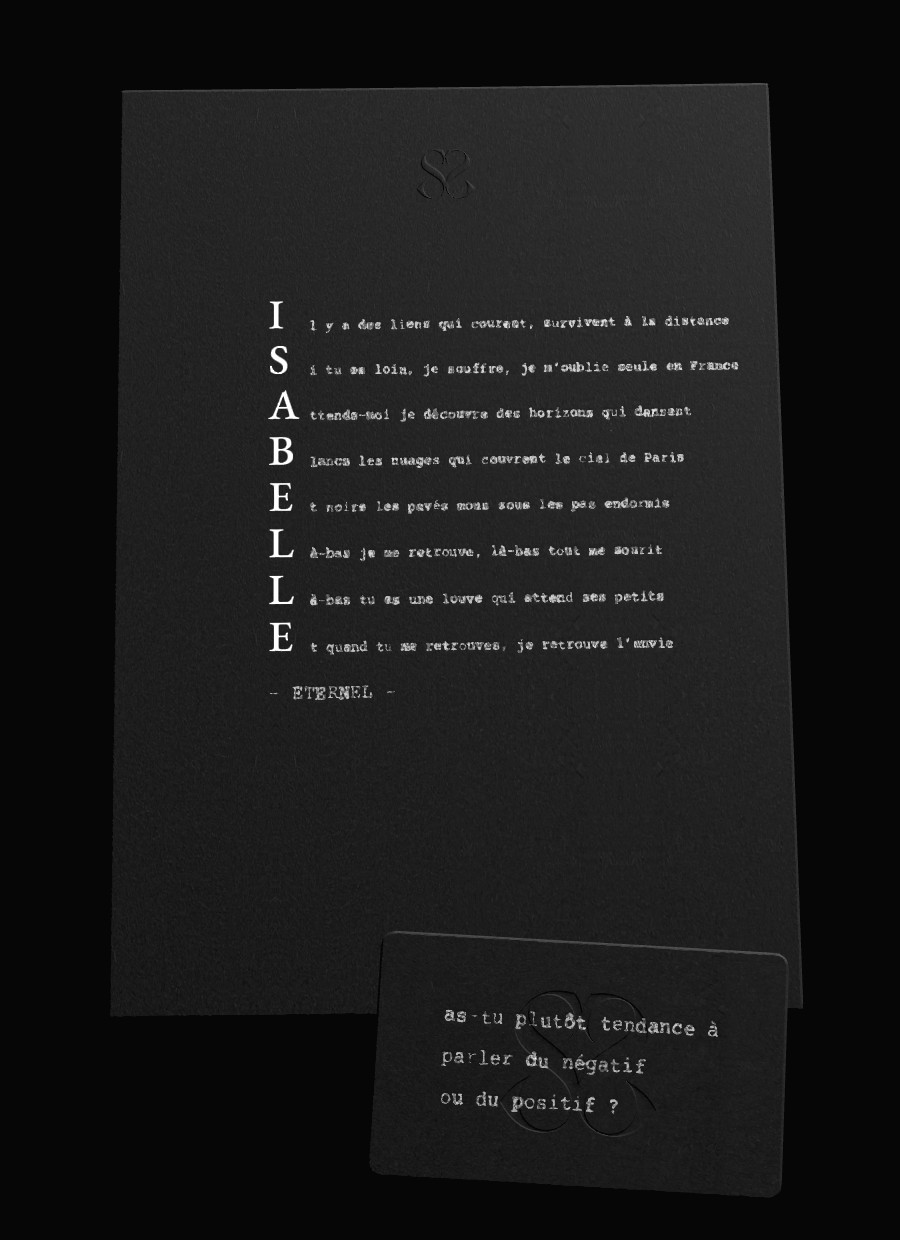
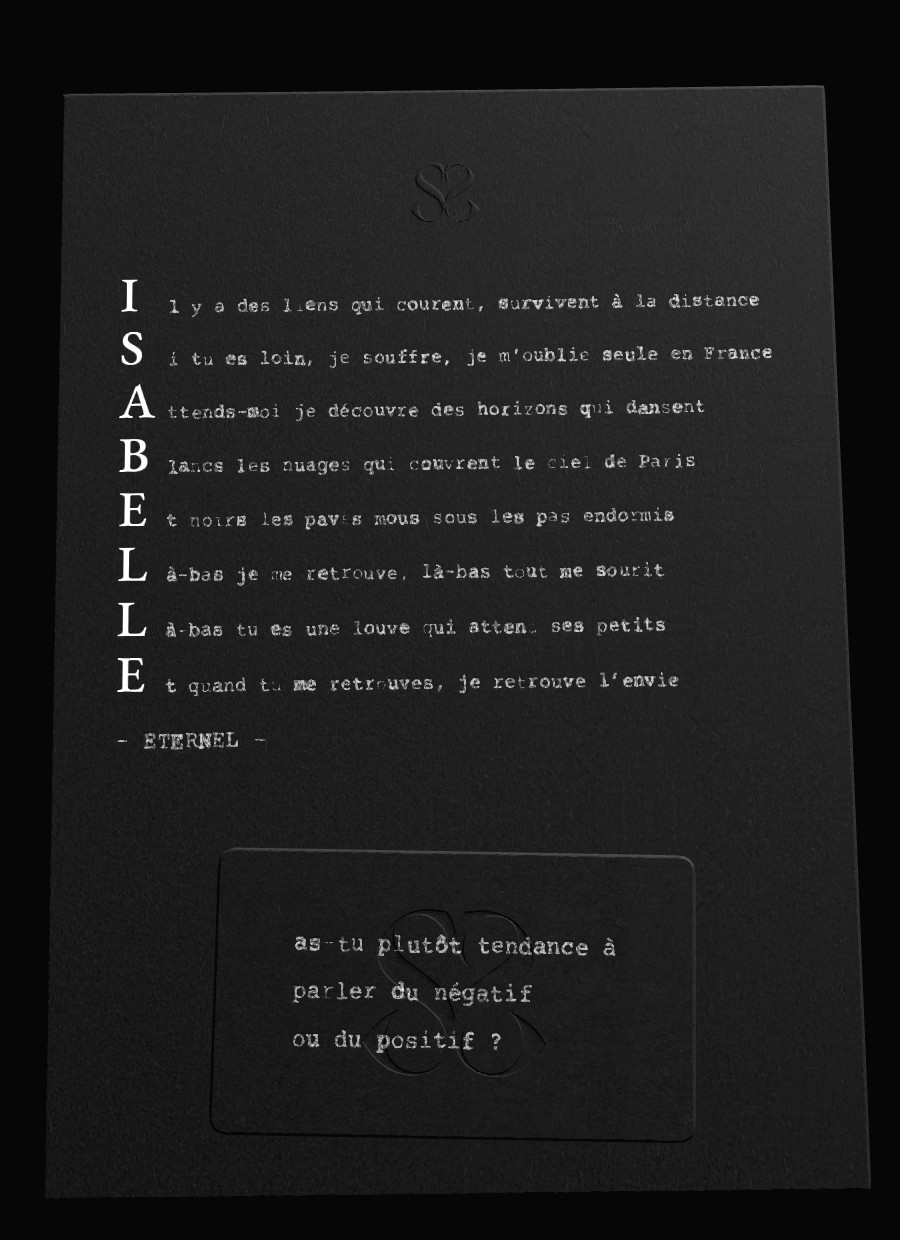
Acrostiche centré sur la feuille ; (alt) carte face cachée posée SUR la feuille sous le nom, exemples carte ouverte ; « un poème original tapé à la machine » ; « réponds ici » partout ; PASSER (j’improvise à partir de PRÉNOM), centré

diff --git a/exemples-rendu.html b/exemples-rendu.html
@@ -43,22 +43,24 @@
     const vers = ex.vers.filter(v => v !== '');
     const chars = vers.map(v => v[0].toUpperCase());
     nameR.letters(chars);
-    const n = chars.length, lead = n > 1 ? Math.min(10.5, 148 / (n - 1)) : 10.5;
-    const cap = Math.min(6.4, lead * 0.6), emT = cap / nameR.capHeight, yc = 14;   // le poème entre le logo et la carte
+    // la carte posée SUR la feuille, sous le nom, centrée ; le poème centré entre le logo et la carte
+    const CY = -SHEET.h / 2 + CARD.h / 2 + 10, colTop = SHEET.h / 2 - 32, colBot = CY + CARD.h / 2 + 10;
+    const n = chars.length, lead = n > 1 ? Math.min(10.5, (colTop - colBot - 14) / (n - 1)) : 10.5;
+    const cap = Math.min(6.4, lead * 0.6), emT = cap / nameR.capHeight, yc = (colTop + colBot) / 2 + cap / 2 + 4;
     const baseOf = k => yc + ((n - 1) / 2 - k) * lead - cap / 2;
 
     // les vers, tapés à la machine juste après la lettre de la colonne ; plus petits si le plus long ne tient pas
-    const x0 = COL_X + Math.max(...chars.map(c => nameR.adv(c))) * emT + TYPE.pitch * 0.9;
     // (la police machine n'a pas de « œ », les machines à écrire non plus : « oe »)
     const rests = vers.map(v => v.slice(2).replace(/œ/g, 'oe').replace(/Œ/g, 'OE'));
-    const avail = SHEET.w / 2 - 9 - x0, long = Math.max(...rests.map(r => r.length)) * TYPE.pitch;
-    const k = Math.min(1, avail / long);
+    // le bloc (lettres + vers) centré sur la feuille ; les vers à la taille de la machine, plus petits seulement s'ils ne tiennent pas
+    const lw = Math.max(...chars.map(c => nameR.adv(c))) * emT, gap = TYPE.pitch * 0.9, long = Math.max(...rests.map(r => r.length)) * TYPE.pitch;
+    const k = Math.min(1, (SHEET.w - 24 - lw - gap) / long);
+    const colX = -(lw + gap + long * k) / 2, x0 = colX + lw + gap;
     const full = new OffscreenCanvas(Math.round(SHEET.w * PX), Math.round(SHEET.h * PX)), fx = full.getContext('2d');
     fx.fillStyle = '#000'; fx.fillRect(0, 0, full.width, full.height);
-    // frappé deux fois au même endroit (même graine) : l'appui irrégulier reste, aucune lettre ne disparaît
-    for (let rep = 0; rep < 2; rep++) rests.forEach((r, i) => typeLines(fx, PX * k, [r], (SHEET.w / 2 + x0) / k, (SHEET.h / 2 - baseOf(i)) / k, 0, seed * 31 + i * 7, 0.75, '#fff'));
+    rests.forEach((r, i) => typeLines(fx, PX * k, [r], (SHEET.w / 2 + x0) / k, (SHEET.h / 2 - baseOf(i)) / k, 0, seed * 31 + i * 7, 1, '#fff'));
     const sigY = baseOf(n - 1) - Math.max(lead, 8.5);
-    typeLines(fx, PX, ['- ETERNEL -'], SHEET.w / 2 + COL_X, SHEET.h / 2 - sigY, 0, 4049, 1, '#fff');
+    typeLines(fx, PX, ['- ETERNEL -'], SHEET.w / 2 + colX, SHEET.h / 2 - sigY, 0, 4049, 1, '#fff');
     const sheetInk = card.makeInk(full, true);
 
     // la carte : une question au hasard, côté question, posée en bas de la feuille comme dans le parcours
@@ -66,7 +68,7 @@
     const cardInk = card.makeInk(makeInkMap(q, seed * 13 + 5).canvas);
 
     // cadrage : la feuille entière (et la carte qui dépasse un peu en bas), vue presque de face, lampe rasante
-    const y0 = Math.min(-SHEET.h / 2, C_POSE.y - CARD.h / 2) - 6, y1 = SHEET.h / 2 + 4, x0f = -SHEET.w / 2, x1f = SHEET.w / 2;
+    const y0 = -SHEET.h / 2 - 4, y1 = SHEET.h / 2 + 4, x0f = -SHEET.w / 2, x1f = SHEET.w / 2;
     const Hw = Math.max((y1 - y0) * 1.06, (x1f - x0f) * 1.06 * H / W), D = Hw / (2 * TF), cy = (y0 + y1) / 2;
     const eye = [0, cy - D * Math.sin(TILT), D * Math.cos(TILT)];
     const vp = M4.mul(M4.perspective(FOV, W / H, D * 0.25, D * 3), M4.lookAt(eye, [0, cy, 0], [0, 1, 0]));
@@ -80,9 +82,9 @@
     const Ms = M4.model(0, 0, 0.012, 0, 0, 0);
     card.draw(vp, eye, P, { model: Ms, lod: 'sheet', seed: 40 + seed, paperXf: [1.2, -0.6, 0, 0], warp: [0.4, -0.22, 0.05],
       logoOff: [0, LOGO_Y], logoScale: [LOGO_K, LOGO_K], paperTile: 0.6 * CARD.w / 0.7, paperLo: 0.35, inkBack: sheetInk, inkRG: true });
-    const Mc = M4.mul(M4.mul(Ms, M4.model(0, 0, C_POSE.rz, C_POSE.x, C_POSE.y, 2.2)), M4.model(0, Math.PI, 0));
+    const Mc = M4.mul(M4.mul(Ms, M4.model(0, 0, -0.03, 0, CY, 2.2)), M4.model(0, Math.PI, 0));
     card.draw(vp, eye, P, { model: Mc, lod: 'fine', ink: cardInk, seed: (seed * 7) % 97, paperXf: [0.6, -0.4, 0, 0], warp: [0.18, -0.08, 0.04], logoOff: [0, 0] });
-    const list = chars.map((ch, i) => ({ i, model: M4.mul(Ms, M4.mul(T(COL_X, baseOf(i), SHEET.t / 2 + 1), S(emT))), glow: 0.16, alpha: 1 }));
+    const list = chars.map((ch, i) => ({ i, model: M4.mul(Ms, M4.mul(T(colX, baseOf(i), SHEET.t / 2 + 1), S(emT))), glow: 0.16, alpha: 1 }));
     nameR.drawLetters(vp, eye, P, L, list, 2);
     gl.finish();
     const url = canvas.toDataURL('image/jpeg', 0.9);

diff --git a/src/sheet/sheet.js b/src/sheet/sheet.js
@@ -49,7 +49,7 @@ const FLY_AT = 1.05, FLY_GAP = 0.27, FLY_T = 1.35;
 const CAM_T = 2.4;
 const C_IN = { x: 14, y: -56, rz: -0.03, z: 0.3 };                  // la carte, posée sur la feuille pour entrer
 const FD_IN = [1.6, 3.1];                        // (alt) la carte face cachée glisse sur la feuille
-const FD_Y = -SHEET.h / 2 + 26;                  // … et s'y pose entière (le bas de l'écran porte l'offre)
+const FD_Y = -SHEET.h / 2 + CARD.h / 2 + 10;     // … et s'y pose entière, sous le nom, centrée (10/10 : rien ne dépasse de la feuille)
 const ENVELOPE = new URLSearchParams(location.search).get('enveloppe') !== '0';   // ?enveloppe=0 : « bientôt » comme avant
 // 08/10 : plus de commande — l'acrostiche posé, on passe directement à l'enveloppe (?commande=1 : les deux cartes)
 const ORDERS_ON = new URLSearchParams(location.search).get('commande') === '1' || !ENVELOPE;
@@ -151,10 +151,13 @@ export function createSheetScene(gl, opts) {
   const chars = [...name];
   nameR.letters(chars);
   const nLines = chars.length;
-  const lead = nLines > 1 ? Math.min(10.5, 148 / (nLines - 1)) : 10.5;
+  // (10/10) l'acrostiche toujours centré sur la feuille : entre le haut (sous le logo) et le bas — ou, quand la carte
+  // face cachée est posée sur la feuille (alt), le haut de la carte ; l'interligne se resserre s'il le faut
+  const FD = !!(C && C.faceDown), colTop = SHEET.h / 2 - 32, colBot = FD ? FD_Y + CARD.h / 2 + 10 : -SHEET.h / 2 + 18;
+  const lead = nLines > 1 ? Math.min(10.5, 148 / (nLines - 1), FD ? (colTop - colBot - 6) / (nLines - 1) : Infinity) : 10.5;
   const cap = Math.min(6.4, lead * 0.6), emT = cap / nameR.capHeight;
-  // bloc un peu remonté quand la carte occupe le bas ; (alt) plus encore : la carte face cachée est posée SUR la feuille
-  const yc = C ? (C.faceDown ? 10 : -6) : 0;
+  // bloc un peu remonté quand la carte (réponse) recouvre le bas ; (alt) centré au-dessus de la carte posée sur la feuille
+  const yc = C ? (FD ? (colTop + colBot) / 2 + cap / 2 : -6) : 0;
   const baseOf = k => yc + ((nLines - 1) / 2 - k) * lead - cap / 2;
   // départ : la lettre telle que la scène des cartes l'a laissée (monde, à plat)
   const starts = [];
@@ -174,7 +177,7 @@ export function createSheetScene(gl, opts) {
   const first = chars.findIndex(c => c !== ' ');
   // lignes à écrire : un souligné à la machine à droite de chaque lettre, tapé quand elle se pose (fin commune,
   // marge droite = marge de la colonne)
-  const RULE_X1 = SHEET.w / 2 - 30;
+  const RULE_X1 = -COL_X;   // (10/10) marges égales : le bloc (colonne + lignes) centré sur la feuille
   const rulesOf = tu => flyers.map((f, k) => {
     const x0 = COL_X + nameR.adv(f.ch) * emT + TYPE.pitch * 1.2;
     const u = reduced ? (tu > f.at + f.dur ? 1 : 0) : clamp01((tu - (f.at + f.dur + 0.12)) / 0.55);
@@ -223,7 +226,7 @@ export function createSheetScene(gl, opts) {
     return { cx: (x0 + x1) / 2, cy: (y0 + y1) / 2, D: Hw / (2 * TF), Hw };
   }
   function layout(W, H) {
-    const cBot = C ? C_POSE.y - CARD.h / 2 : -SHEET.h / 2;
+    const cBot = C && !C.faceDown ? C_POSE.y - CARD.h / 2 : -SHEET.h / 2;   // (alt) la carte est SUR la feuille : même cadrage
     frames.A = frameFor(SY + cBot - 8, SY + SHEET.h / 2 + 4, -SHEET.w / 2, SHEET.w / 2, SHEET.w * 1.1, W, H);
     // tant que les lettres sont en haut : la feuille et le prénom au-dessus
     frames.AN = frameFor(SY + cBot - 8, Math.max(SY + SHEET.h / 2 + 4, nameTop + 8), -SHEET.w / 2, SHEET.w / 2, SHEET.w * 1.1, W, H);
@@ -443,7 +446,7 @@ export function createSheetScene(gl, opts) {
       const u = reduced ? sstep(FD_IN[0], FD_IN[0] + 0.5, tu) : span(FD_IN, tu), e = ease(u);
       const lv = C.leaveT != null ? (reduced ? 1 : ease(clamp01((t - C.leaveT) / 1.1))) : 0;
       const k = Math.max(1 - e, lv);
-      Mc = M4.mul(Msheet, M4.model(0, 0, C_POSE.rz - 0.28 * k, C_POSE.x + C.v.jx + 24 * k, FD_Y + C.v.jy * 2 - 125 * k, 2.2 + 26 * k));
+      Mc = M4.mul(Msheet, M4.model(0, 0, -0.03 - 0.28 * k, C.v.jx + 24 * k, FD_Y + C.v.jy * 2 - 125 * k, 2.2 + 26 * k));
       C.fade = sstep(0, 0.35, u) * (1 - sstep(0.3, 1, lv));
       C.occ = u > 0.9 && lv < 0.05 && !hideInside ? { m: Mc } : null;
     } else if (C) {

diff --git a/src/simple/simple.js b/src/simple/simple.js
@@ -64,7 +64,7 @@ const CSS = `
 .sp-sign { position: absolute; left: 0; right: 0; text-align: center; font: 500 14px/44px 'SG Garamond', Georgia, serif; letter-spacing: .4em;
   padding: 0 0 0 .4em; margin: 0; border: 0; background: transparent; color: #fff; opacity: 0; transition: opacity 1.2s; pointer-events: none; cursor: pointer; }
 .sp-sign.on { opacity: .62; pointer-events: auto; }
-.sp-sign .sp-sub { display: block; margin-top: -10px; font-size: 13px; line-height: 1.2; letter-spacing: .04em; opacity: .55; }
+.sp-sign .sp-sub { display: block; margin-top: -10px; font-size: 13px; line-height: 1.2; letter-spacing: .04em; padding-left: 0; opacity: .55; }
 .sp-sign.on:hover { opacity: .85; }
 .sp-back { position: absolute; left: max(6px, env(safe-area-inset-left)); top: max(6px, env(safe-area-inset-top)); width: 44px; height: 44px;
   display: flex; align-items: center; justify-content: center; color: #fff; opacity: 0; transition: opacity .8s; pointer-events: none;
@@ -359,11 +359,12 @@ export function mountSimpleFlow(opts) {
   const ta = el('textarea', 'sp-write', root);
   Object.assign(ta, { spellcheck: false, rows: 3 });
   ta.setAttribute('autocapitalize', 'none'); ta.setAttribute('autocomplete', 'off'); ta.setAttribute('autocorrect', 'off');
-  ta.setAttribute('enterkeyhint', 'done'); ta.placeholder = 'ta réponse est le thème';
+  ta.setAttribute('enterkeyhint', 'done'); ta.placeholder = 'réponds ici';
   const deckBtn = el('button', 'sp-btn', root); deckBtn.type = 'button'; deckBtn.textContent = 'une autre question'; deckBtn.setAttribute('aria-label', 'une autre question');
   const prevBtn = el('button', 'sp-btn', root); prevBtn.type = 'button'; prevBtn.textContent = 'la question précédente'; prevBtn.setAttribute('aria-label', 'la question précédente');
   const blankBtn = el('button', 'sp-btn', root); blankBtn.type = 'button'; blankBtn.textContent = 'carte blanche'; blankBtn.setAttribute('aria-label', 'carte blanche : écrire le thème de ton poème');
-  const pass = el('button', 'sp-sign', root, 'PASSER<span class="sp-sub">j’improvise</span>'); pass.type = 'button'; pass.setAttribute('aria-label', 'Passer : j’improvise sur ton prénom');
+  const pass = el('button', 'sp-sign', root, 'PASSER<span class="sp-sub"></span>'); pass.type = 'button'; pass.setAttribute('aria-label', 'Passer : j’improvise à partir de ' + name);
+  pass.querySelector('.sp-sub').textContent = '(j’improvise à partir de ' + name + ')';
   const curl = el('div', 'sp-curl', root);
   let L = null;                                            // disposition des cartes
   function layoutCards() {
@@ -386,7 +387,8 @@ export function mountSimpleFlow(opts) {
     box(prevBtn, 22, qy, 44, 44);
     box(blankBtn, W / 2, H - L.visH * 0.25, L.vis, L.visH * 0.5);
     Object.assign(curl.style, { left: (W / 2 + L.vis / 2 - 22) + 'px', top: (qy - L.visH / 2) + 'px' });
-    pass.style.top = (mode === 'free' ? Math.min(qy + L.visH / 2 + 18, H - 52) : H - L.visH * 0.72 - 58) + 'px';
+    // (10/10) sur une question : centré entre la question (et sa bande de réponse) et la carte blanche
+    pass.style.top = (mode === 'free' ? Math.min(qy + L.visH / 2 + 18, H - 52) : ((qy + L.visH / 2 + L.visH * 0.35) + (H - L.visH * 0.72)) / 2 - 30) + 'px';
   }
   function placeBlank() {
     if (!L) return;
@@ -454,7 +456,7 @@ export function mountSimpleFlow(opts) {
     if (mode !== 'free') return;
     answers.blank = ta.value; mode = 'q'; passOn();
     for (const d of [...deck, ansCard, ...(q ? [q.c] : [])]) d.style.opacity = 1;
-    ta.placeholder = 'ta réponse est le thème';
+    ta.placeholder = 'réponds ici';
     if (q) { ta.value = answers[q.id] || ''; ta.setAttribute('aria-label', QUESTIONS.find(x => x.id === q.id)?.q || 'Réponse'); }
     blank.style.zIndex = '';
     layoutCards();

diff --git a/src/cards/mount.js b/src/cards/mount.js
@@ -22,7 +22,7 @@ const CSS = `
   opacity: 0; transition: opacity 1.2s; pointer-events: none;
   font: 500 14px/44px 'SG Garamond', serif; letter-spacing: 0.4em; padding-left: 0.4em; color: #fff; }
 .sc-pass.on { opacity: .62; pointer-events: auto; }
-.sc-pass .sc-sub { display: block; margin-top: -12px; font-size: 13px; line-height: 1.2; letter-spacing: .04em; opacity: .55; }
+.sc-pass .sc-sub { display: block; margin-top: -12px; font-size: 13px; line-height: 1.2; letter-spacing: .04em; padding-left: 0; opacity: .55; }
 .sc-back { left: max(6px, env(safe-area-inset-left)); top: max(6px, env(safe-area-inset-top)); }
 /* feuille : boutons accessibles (clavier, lecteur d'écran) posés sur la carte et la commande ; le toucher passe au canvas */
 .sc-hit { position: fixed; margin: 0; padding: 0; border: 0; background: transparent; color: transparent; font-size: 1px;
@@ -135,7 +135,8 @@ export async function mountCards(opts) {
   }
   answer.setAttribute('autocapitalize', 'none'); answer.setAttribute('enterkeyhint', 'done'); answer.setAttribute('aria-label', 'Réponse');
   const giveEl = el('div', 'sc-sign', '<svg viewBox="0 0 24 24" width="20" height="20"><path d="M12 19 V6 M6.5 11 L12 5.5 L17.5 11" fill="none" stroke="currentColor" stroke-width="1.1"/></svg>');
-  const passEl = el('div', 'sc-pass', 'PASSER<span class="sc-sub">j’improvise</span>'); passEl.setAttribute('role', 'button'); passEl.setAttribute('aria-label', 'Passer : j’improvise sur ton prénom');
+  const passEl = el('div', 'sc-pass', 'PASSER<span class="sc-sub"></span>'); passEl.setAttribute('role', 'button'); passEl.setAttribute('aria-label', 'Passer : j’improvise à partir de ' + name);
+  passEl.querySelector('.sc-sub').textContent = '(j’improvise à partir de ' + name + ')';
   // l'enveloppe : POSTER (même signe que PASSER), dès que l'adresse a deux lignes, même clavier ouvert
   const postEl = el('div', 'sc-pass', 'POSTER'); postEl.setAttribute('role', 'button'); postEl.tabIndex = 0;
   // pointerdown sans effet par défaut : le champ garde le focus, le clavier ne se ferme pas sous le doigt avant le clic
@@ -474,7 +475,8 @@ export async function mountCards(opts) {
       passEl.classList.toggle('on', !st.ended && ((st.mode === 'free' && st.freeFor > 3) || blankIn));
       const kbTop = vv ? vv.offsetTop + vv.height : innerHeight;
       if (st.kb && r) passEl.style.top = Math.max(r.bottom + 2, (r.bottom + kbTop) / 2 - 22) + 'px';
-      else if (st.mode === 'q' && mk) passEl.style.top = (mk.blankTop - 64) + 'px';
+      // (10/10) centré entre la question (et sa bande de réponse) et la carte blanche
+      else if (st.mode === 'q' && mk) passEl.style.top = (((mk.qBottom || mk.deckBottom) + mk.blankTop) / 2 - (passEl.offsetHeight || 60) / 2) + 'px';
       else if (mk) passEl.style.top = (mk.deckBottom + 34) + 'px';
       // respiration : la lumière et la carte en focus bougent d'elles-mêmes, très peu (le vivant, sans gyroscope)
       // la lampe respire d'elle-même (scene.js : breathAz / breathEl) ; carte en focus : elle respire aussi, moins que

diff --git a/src/cards/scene.js b/src/cards/scene.js
@@ -316,7 +316,7 @@ export async function createCardScene(gl, { base = './', seed = (Math.random() *
     a.cursorMM = pre ? pre.cursorMM : makeStripInk('', Math.floor(v.seed * 1000) + 7, question.margin).cursor;
     return a;
   }
-  const HINT_ANSWER = 'ta réponse est le thème', HINT_BLANK = 'le thème de ton poème';
+  const HINT_ANSWER = 'réponds ici', HINT_BLANK = 'le thème de ton poème';   // (10/10 : était « ta réponse est le thème »)
   function renderAnswer(c = act()) {
     if (!c) return;
     const sd = Math.floor(c.v.seed * 1000) + 7;
@@ -727,7 +727,7 @@ export async function createCardScene(gl, { base = './', seed = (Math.random() *
   function marks() {
     if (!vp) return null;
     const z = { jx: 0, jy: 0, jr: 0 };
-    return { peekBottom: rectOf(screenQuad(peekPose(z))).bottom, blankTop: rectOf(screenQuad(blankRest(z))).top, deckBottom: rectOf(screenQuad(centerPose(z))).bottom };
+    return { peekBottom: rectOf(screenQuad(peekPose(z))).bottom, blankTop: rectOf(screenQuad(blankRest(z))).top, deckBottom: rectOf(screenQuad(centerPose(z))).bottom, qBottom: lowestBottom() };
   }
   function lowestBottom() {
     if (!vp) return null;

diff --git a/src/alt/offre.js b/src/alt/offre.js
@@ -16,14 +16,8 @@ let onPaidHere = null;
 const readOrder = () => { try { return JSON.parse(localStorage.getItem(K_ORDER) || 'null'); } catch { return null; } };
 const saveOrder = o => { try { localStorage.setItem(K_ORDER, JSON.stringify(o)); } catch { /* */ } };
 const BACK_SVG = '<svg viewBox="0 0 24 24" width="18" height="18"><path d="M15 5 L8 12 L15 19" fill="none" stroke="currentColor" stroke-width="1.2"/></svg>';
-// (10/10) sous la feuille : un poème original, tapé à la machine (à la place de « ces lignes n'existent pas encore… »)
-const POEME = [
-  'ton prénom attend, en colonne,',
-  'une ligne vide pour chaque lettre.',
-  'je n’écris rien d’avance :',
-  'je lis ta réponse, je pose mes mains,',
-  'et je tape ce qui te ressemble.',
-];
+// (10/10) sous la feuille, une seule phrase, tapée à la machine
+const POEME = ['un poème original tapé à la machine'];
 const esc = s => String(s).replace(/[&<>"']/g, c => ({ '&': '&amp;', '<': '&lt;', '>': '&gt;', '"': '&quot;', "'": '&#39;' }[c]));
 
 // le paiement : le prénom part dans client_reference_id (A–Z, chiffres, - et _), et reste ici pour merci.html

diff --git a/src/alt/offre.css b/src/alt/offre.css
@@ -27,10 +27,10 @@
    en faisant défiler, la suite (opaque) monte sur la feuille */
 .of.over { background: transparent; }
 .of.over main { padding-top: 0; }
-.of.over .of-hole { height: calc(100svh - 150px - env(safe-area-inset-bottom)); }
+.of.over .of-hole { height: calc(100svh - 136px - env(safe-area-inset-bottom)); }
 /* (10/10) le poème original, tapé sous la feuille (ses premières lignes dépassent au-dessus du bandeau) */
 .of.over .of-poem { background: #060606; box-shadow: 0 0 0 100vmax #060606; clip-path: inset(0 -100vmax -1px); padding-top: 10px; }
-.of-poem { text-align: left; width: fit-content; max-width: 340px; margin-left: auto; margin-right: auto; min-height: 8.5em; line-height: 1.7; color: #c4bfb5; }
+.of-poem { text-align: center; min-height: 1.7em; line-height: 1.7; color: #c4bfb5; }
 .of.over .of-note { margin: 0; padding: 0 0 18px; }
 .of-note span { color: #77726a; }
 .of.over .of-after { display: none; }   /* la carte face cachée le dit */

diff --git a/src/main.js b/src/main.js
@@ -258,7 +258,7 @@ function loadCards(name) {
   cards = cardsModule.then(({ mountCards }) => mountCards({
     name, base: './', onExit: exitCards, hidden: true, firstQ: jeuQ,
     // version alternative : la feuille seule, tout de suite, qui reste ; l'offre se pose dessus quand le curseur respire
-    ...(ALT ? { sheetFast: 1.8, noTopCard: true, payInstead: true, onEnvelope: e => offerObj?.onEnvelope?.(e), sheetOnly: true, hold: true, onSheetReady: () => showOffer(true) } : {}),
+    ...(ALT ? { sheetFast: 1.8, payInstead: true, onEnvelope: e => offerObj?.onEnvelope?.(e), sheetOnly: true, hold: true, onSheetReady: () => showOffer(true) } : {}),
     onEnd: () => {}, onDone: () => (S.paid ? finishPaid() : backToStart()),
   })).then((m) => {
     if (!m) throw new Error('webgl2');

diff --git a/CLAUDE.md b/CLAUDE.md
@@ -277,3 +277,4 @@ Test sans consigne : 5 personnes sur mobile. Comprennent-elles qu'il faut écrir
 - **« un prénom, un poème »** (10/10) : l'intro de `alt.html` : **seulement ETERNEL** (son nom, qui invite à taper le sien) tapé puis effacé, puis le curseur seul, sans indice grisé (Maxence 10/10, après essai de UN PRENOM, UN POEME) ; « un prénom, un poème » partout où le produit est nommé : panneau de paiement (« · à offrir » si offert), mentions, produit Stripe (« Un prénom, un poème : LEA »), titre et vignette d'`alt.html`.
 - **L'enveloppe mène au paiement** (10/10) : COMMANDER → la feuille se glisse dans l'enveloppe (scène du site de base, `api.openEnvelope` → `sheet.showOrders`), on y tape l'adresse (champs de l'enveloppe, remplissage automatique) ; **à la place de POSTER** (`payInstead`), le bandeau revient avec PAYER (ou Apple Pay / Google Pay s'il est dans le bandeau) ; le panneau ne demande plus l'adresse (elle part chez Stripe : `actions.updateShippingAddress`). Payé : l'enveloppe se défait, puis la feuille, puis la carte est tirée (`afterPay`, deux retours). Retour pendant l'enveloppe : elle se défait (`envBack`). **Page allégée** : plus de preuves (photos), ni de liste « ce que tu reçois », ni de phrases d'après / cadeau / mentions (les mentions sont dans le panneau) ; restent la feuille, « ces lignes n'existent pas encore… », d'autres poèmes, les liens. **D'autres poèmes = trois acrostiches réels** (ISABELLE, ANAIS MARYSOL en deux strophes, JULIE), carte posée face cachée.
 - **Retours du 10/10 (soir)** : (alt) **du prénom à la colonne, tout va plus vite** — vol des lettres ×1,4 (`fast` dans planRecharge), repos 0,15 s, montée et fondu ×1,7 (`ALT_K`, `HANDOFF` 0,35), feuille et descente des lettres ×1,8 (`sheetFast` → `FAST` dans sheet.js) ; ≈ 8 s de Entrée à l'offre (≈ 13 avant). **Plus de carte sur la feuille** (`noTopCard`). **Sous la feuille, un poème original tapé à la machine** (`POEME` dans offre.js) à la place de « ces lignes n'existent pas encore ». **Les exemples : un prénom chacun** (ISABELLE, ANAIS, MARYSOL, JULIE), **rendus par le vrai moteur** comme la feuille de la personne (lettres en relief, vers tapés deux fois pour la netteté, « oe » pour « œ », signature, carte question au hasard posée comme dans le parcours) : `exemples-rendu.html` → `node tools/exemples-shot.mjs` → `public/exemples/<prénom>.jpg`.
+- **Encore 10/10** : l'acrostiche **centré sur la feuille** (marges égales : `RULE_X1 = -COL_X` ; partout) ; (alt) **la carte face cachée revient, posée SUR la feuille, sous le nom, centrée** (logo en relief : on annonce discrètement la question ; cadrage inchangé) et le nom centré au-dessus ; **exemples** : bloc lettres + vers centré, vers tapés normalement (une frappe), **carte ouverte** (logo creusé, la question) posée sur la feuille sous le poème. Sous la feuille, **une seule phrase** : « un poème original tapé à la machine ». **« réponds ici »** remplace « ta réponse est le thème » partout. **PASSER** : dessous « (j’improvise à partir de LEA) » (le prénom), centré entre la question et la carte blanche (scène 3D et version simple).
